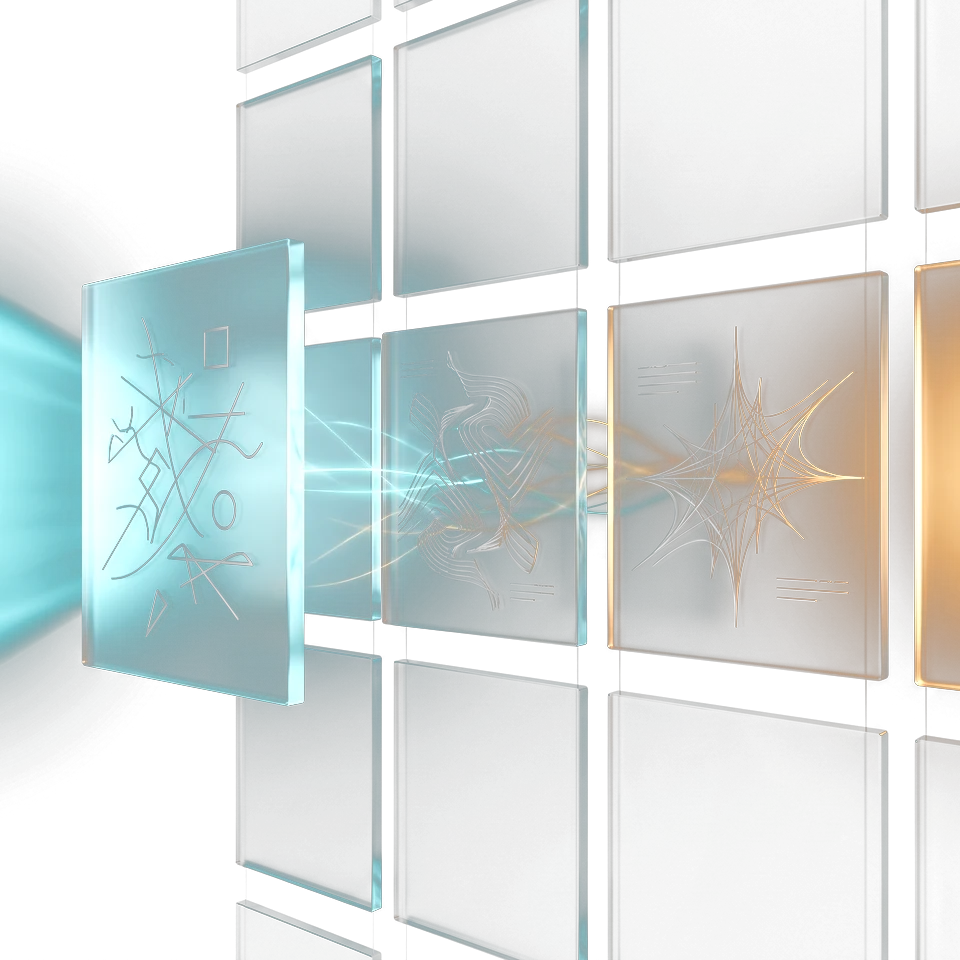
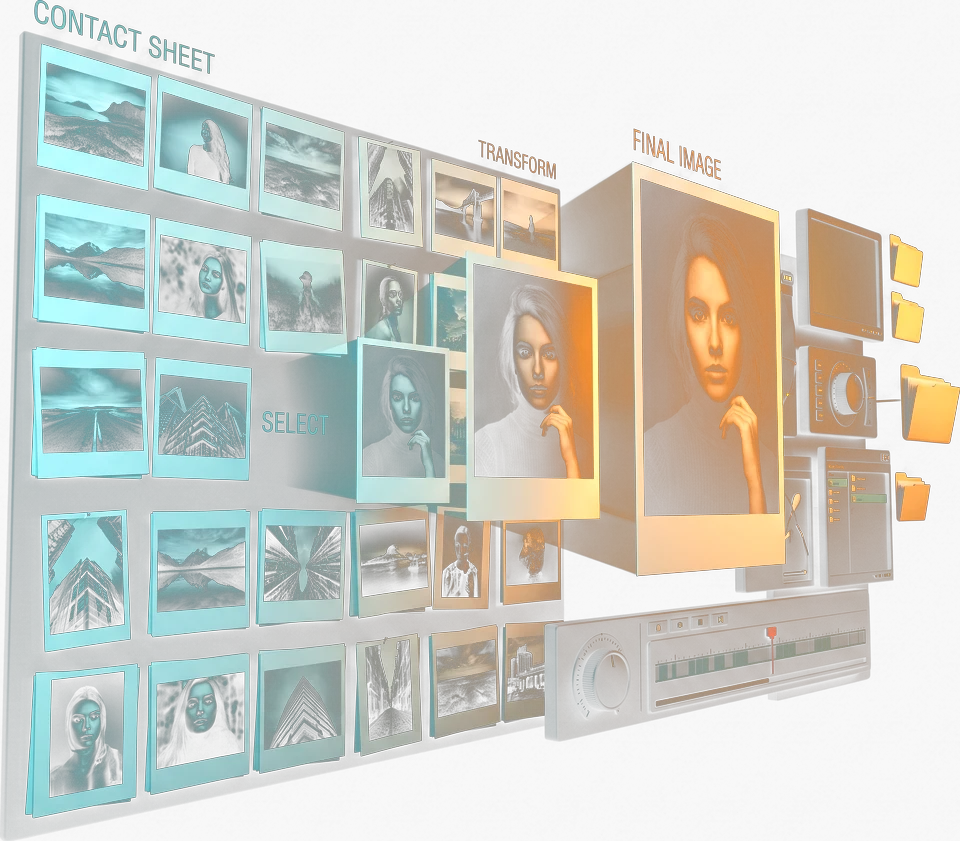
Fa' riconoscere lo strumento nella copertina, e unisci racconto e montaggio
Le copertine erano astratte: sculture di vetro che raccontavano un passaggio, ma
per capire quale bisognava gia' sapere cosa faceva lo strumento. Ora gli oggetti
sono quelli veri del mestiere. «Genera immagini» e' un campo di testo con dentro
scritto "a quiet street at sunset" e, a destra, la fotografia che ne nasce: si
vede che parte da una frase e non da uno scatto, che era esattamente la cosa che
non si capiva. «Banco del prompt» sono manopole con l'etichetta sopra — esposizione,
contrasto, saturazione — e la foto che cambia. «Sviluppo colore» e' un file grezzo
piatto accanto allo stesso file sviluppato.

E le aree: «Racconto» aveva un solo strumento e «Montaggio» quattro, ma sono lo
stesso lavoro in due momenti — si scrive la storia, la si gira, la si taglia.
Adesso e' una sola area «Video», da cinque. Erano anche due sezioni da leggere per
capire dove stava il video, e una sezione da uno strumento lasciava due buchi
nella griglia a tre colonne.

diff --git a/scripts/copertine.ts b/scripts/copertine.ts
@@ -36,53 +36,50 @@ import { existsSync, mkdirSync, statSync } from "node:fs";
 import { generaDaTesto } from "../server/higgsfield.ts";
 
 const STILE =
-  "Infografica tridimensionale, non un'illustrazione decorativa: la composizione racconta una " +
-  "TRASFORMAZIONE da sinistra a destra — la cosa che entra, il passaggio, la cosa che esce — e si " +
-  "capisce senza didascalia. SFONDO NERO PURO uniforme, senza pavimento e senza ombre proiettate. " +
-  "Materiali: vetro spesso leggermente satinato e alluminio spazzolato scuro. Una sola luce di taglio " +
-  "ciano fredda da sinistra e una ambra calda da destra, niente altri colori se non dove il soggetto " +
-  "richiede espressamente un confronto di colore. Nessuna lettera, nessun numero, nessun logo: il testo, " +
-  "quando serve, e' righe astratte incise nel vetro, che si leggono come scrittura senza esserlo. " +
-  "Composizione ORIZZONTALE, oggetti piccoli e molto nero attorno. Minimalismo estremo, elegante, " +
-  "moderno, coerente con un'interfaccia scura.";
+  "Illustrazione tridimensionale REALISTICA e concreta, non astratta: si riconoscono oggetti veri — " +
+  "schermi, fotografie stampate, cartelle, manopole, linee del tempo — e si capisce a colpo d'occhio " +
+  "cosa entra e cosa esce. La composizione racconta una TRASFORMAZIONE da sinistra a destra. " +
+  "Le fotografie mostrate sono immagini vere e riconoscibili: paesaggio, ritratto, architettura. " +
+  "Il testo, quando serve, e' breve e LEGGIBILE, in inglese. " +
+  "SFONDO NERO PURO uniforme, senza pavimento e senza ombre proiettate. Illuminazione con una luce " +
+  "ciano fredda da sinistra e una ambra calda da destra; nessun altro colore se non quello delle " +
+  "fotografie mostrate. Composizione ORIZZONTALE, molto nero attorno. Elegante, moderno, nitido, " +
+  "coerente con l'interfaccia scura di un programma di fotografia.";
 
 /**
- * Il soggetto deve far capire COSA FA lo strumento, non evocarlo.
+ * Il soggetto deve far RICONOSCERE lo strumento, non evocarlo.
  *
- * La prima serie era bella e muta: un ventaglio di cilindri di vetro non dice che
- * quello strumento sviluppa il colore, e due strumenti vicini — generare e rifare —
- * si somigliavano perche' entrambi erano «una lastra che si illumina». Qui ognuno
- * mostra il proprio passaggio: cosa entra da sinistra, cosa esce a destra. E' anche
- * il motivo per cui restano riconoscibili in fila: sono ventidue frasi diverse, non
- * ventidue variazioni della stessa.
+ * La prima serie era bella e muta; la seconda raccontava un passaggio ma con sculture
+ * di vetro, e per capirlo bisognava gia' sapere cosa faceva lo strumento. Qui gli
+ * oggetti sono quelli veri del mestiere — un campo di testo, una fotografia, una
+ * cartella, una linea del tempo — perche' l'associazione deve essere immediata: se
+ * uno strumento parte da una frase scritta, nell'immagine si vede una frase scritta.
  */
 const SOGGETTI: Record<string, string> = {
-  generate: "A sinistra tre righe astratte incise nel vetro, come una frase; al centro un passaggio di luce; a destra una lastra fotografica che si e' accesa con un'immagine dentro. Dal testo nasce l'immagine",
-  retouch: "A sinistra una pila di lastre opache e spente; al centro un passaggio di luce che le attraversa tutte; a destra la stessa pila, ogni lastra ora nitida e illuminata. Un intero set rifatto in un colpo. SOLO ciano e ambra, nessun altro colore",
-  prompt: "Una fila di manopole di alluminio in basso; sopra ognuna una piccola lastra che cambia di conseguenza, dalla piu' scura alla piu' luminosa. I controlli e il loro effetto, visibili insieme. SOLO ciano e ambra, nessun altro colore",
-  color: "Una sola lastra fotografica tagliata a meta' da una linea netta verticale: la meta' sinistra grigia e piatta, la meta' destra con lo stesso soggetto ma colore pieno e contrasto. Il prima e il dopo nella stessa immagine",
-  export: "Una lastra di vetro finita che scivola fuori da una fessura di alluminio verso destra, uscendo dal contenitore. Il lavoro che esce dal progetto",
-  pipeline: "Quattro lastre in fila da sinistra a destra, collegate da un filo di luce: la prima spenta e grezza, ognuna piu' definita, l'ultima finita. La catena intera in un colpo solo",
-  quality: "Una lastra fotografica sotto una cornice di misura di alluminio con tacche incise; una zona della lastra e' cerchiata e illuminata, come un difetto trovato. Misurare cosa e' venuto male",
-  defects: "Una griglia di piccole lastre di vetro; tre portano un segno diverso — una crepa, una sfocatura, una zona bruciata — e sono staccate dalle altre. Il catalogo di cio' che puo' andare storto",
-  gallery: "Una griglia ordinata di lastre di vetro sospese; una si stacca e viene avanti, ingrandita e accesa. Sfogliare e scegliere",
-  sources: "A sinistra una cartella di alluminio aperta; da essa un flusso di piccole lastre passa in un vassoio a destra, dove sono allineate. Le fotografie che entrano nel progetto",
-  posts: "Tre lastre verticali affiancate come schede, con un arco di luce che indica lo scorrimento laterale da una all'altra. Un carosello",
-  references: "A sinistra una lastra campione appesa a un gancio; una linea di luce la collega a destra a una seconda lastra, che ne ha preso il colore. Uno stile che si trasferisce",
-  tree: "Una lastra sola in basso, da cui parte un ramo di vetro che si divide in tre lastre diverse in alto. Le versioni nate dalla stessa foto",
-  orphans: "Una griglia ordinata di lastre collegate da fili di luce; una sta fuori, il suo filo spezzato e spento. Una foto che non appartiene a nessuno",
-  storyboard: "Quattro riquadri di vetro in fila su una guida di alluminio, ognuno con dentro una scena diversa, letti da sinistra a destra. Una storia divisa in quadri",
-  edit: "In basso una forma d'onda scolpita in alluminio; sopra, clip di vetro tagliate esattamente in corrispondenza dei picchi, da lame di luce verticali. Tagliare sul ritmo",
-  picks: "Cinque clip di vetro in fila: tre in avanti e accese, due spinte indietro e spente. Scegliere cosa tenere",
-  shots: "A sinistra righe astratte incise nel vetro; a destra una clip di vetro in movimento, con scie di luce che ne mostrano il moto. Dal testo nasce la ripresa",
-  gate: "Una barra di vetro orizzontale con una tacca incisa che segna una soglia; sotto la tacca due clip passano illuminate, sopra una resta ferma e spenta. Una barra da superare",
-  projects: "Tre contenitori di alluminio affiancati, ognuno con lastre dentro; quello centrale e' aperto e illuminato. I lavori, uno accanto all'altro",
-  queue: "Cinque gettoni di vetro su un binario di alluminio che scorre verso destra; il primo sta entrando in una fessura illuminata, gli altri aspettano. Una coda che avanza",
-  status: "Un anello di vetro con dentro una corona di luce che pulsa, e accanto una piccola spia accesa. Il motore acceso e il suo stato",
+  generate: "A sinistra un campo di testo scuro con dentro scritto \"a quiet street at sunset\" e il cursore che lampeggia; una freccia di luce; a destra la fotografia vera che ne e' nata, incorniciata e illuminata. Dal testo nasce la fotografia, senza nessuno scatto di partenza",
+  retouch: "A sinistra una griglia di sei fotografie piatte e slavate; una freccia di luce che le attraversa tutte insieme; a destra la stessa griglia di sei, ognuna ora sviluppata e con contrasto. Un set intero rifatto in un colpo",
+  prompt: "Un pannello di controllo scuro con manopole e cursori etichettati; sopra il pannello la stessa fotografia ripetuta tre volte, che cambia mano a mano che i cursori si spostano. I controlli e il loro effetto, visibili insieme",
+  color: "Una sola fotografia di paesaggio tagliata da una linea verticale netta: la meta' sinistra piatta e desaturata come uscita dalla macchina, la meta' destra sviluppata, con colore e contrasto. Il prima e il dopo nella stessa immagine",
+  export: "Una cartella di sistema aperta a sinistra; tre fotografie finite scivolano fuori verso destra e si posano ordinate fuori dalla cartella. Le preferite che escono dal progetto",
+  pipeline: "Una sola fotografia che attraversa quattro stazioni allineate da sinistra a destra: grezza, sviluppata, rifinita, esportata. La catena intera in un colpo solo",
+  quality: "Una fotografia sotto una lente d'ingrandimento che cerchia una zona sfocata; accanto una piccola lista con tre voci, due spuntate e una segnata in rosso. Misurare cosa e' venuto male",
+  defects: "Quattro fotografie affiancate, ognuna con un difetto diverso e riconoscibile: una mossa, una con le luci bruciate, una rumorosa, una fuori fuoco. Il catalogo di cio' che puo' andare storto",
+  gallery: "Un provino a contatto di molte fotografie su una griglia scura; una si stacca, viene avanti ingrandita e illuminata. Sfogliare e scegliere",
+  sources: "A sinistra una cartella del computer piena di fotografie; una freccia di luce; a destra la finestra di un programma dove le stesse fotografie sono ordinate in griglia. Le foto che entrano nel progetto",
+  posts: "Uno schermo verticale di telefono che mostra un carosello di tre fotografie, con il gesto di scorrimento laterale indicato da un arco di luce. Post e caroselli",
+  references: "A sinistra una fotografia di riferimento con un colore forte; una freccia di luce; a destra una fotografia diversa che ha assunto lo stesso colore. Uno stile che si trasferisce",
+  tree: "Una fotografia in basso da cui partono tre rami di luce verso tre versioni della stessa foto, ognuna sviluppata diversamente. Le versioni nate dallo stesso scatto",
+  orphans: "Una griglia ordinata di fotografie collegate da linee di luce; una sta fuori dalla griglia, la sua linea spezzata e spenta. Una foto che non appartiene a nessun progetto",
+  storyboard: "Quattro riquadri di storyboard in fila su una striscia, ognuno con una scena diversa disegnata dentro, letti da sinistra a destra. Una storia divisa in quadri",
+  edit: "Una linea del tempo di montaggio video: in basso la forma d'onda dell'audio, sopra le clip tagliate esattamente sui picchi, con le linee di taglio evidenziate. Tagliare sul ritmo",
+  picks: "Cinque fotogrammi di riprese video in fila: tre con una spunta verde e in primo piano, due con una croce e spinte indietro, spente. Scegliere quali riprese tenere",
+  shots: "A sinistra un campo di testo con dentro una breve descrizione scritta; una freccia di luce; a destra un fotogramma di video in movimento, con scia di movimento. Dal testo nasce la ripresa",
+  gate: "Una barra orizzontale con una soglia segnata; sotto la soglia due clip passano illuminate, sopra una resta bloccata e spenta. Una barra di qualita' da superare",
+  projects: "Tre schede di progetto affiancate su uno sfondo scuro, ognuna con la sua anteprima fotografica e il suo nome; quella centrale in evidenza. I lavori, uno accanto all'altro",
+  queue: "Un elenco di lavori in coda su uno schermo scuro: il primo con la barra di avanzamento a meta', gli altri in attesa. Una coda che avanza",
+  status: "Un piccolo cruscotto scuro con un indicatore circolare acceso in verde e due righe di stato accanto. Il motore acceso e il suo stato",
 };
 
-/** «Qualita' massima, testo e diagrammi»: e' la descrizione del modello, ed e'
- *  esattamente cio' che serve a un'infografica che deve spiegare uno strumento. */
 const MODELLO = "nano_banana_pro";
 const DESTINAZIONE = "client/public/copertine";
 const GREZZE = ".copertine-grezze";

diff --git a/server/tools.ts b/server/tools.ts
@@ -37,8 +37,7 @@ export type ToolArea =
   | "color"
   | "quality"
   | "library"
-  | "story"
-  | "edit"
+  | "video"
   | "system";
 
 /** The areas in reading order, with the line that explains them. */
@@ -47,8 +46,11 @@ export const AREAS: { id: ToolArea; name: string; what: string }[] = [
   { id: "color", name: "Colore", what: "Un look solo per tutto il set, e l'uscita." },
   { id: "quality", name: "Qualità", what: "Misurare cosa è venuto male, prima di pubblicarlo." },
   { id: "library", name: "Libreria", what: "Le foto: da dove vengono, come si raggruppano." },
-  { id: "story", name: "Racconto", what: "Dalla scaletta ai pannelli." },
-  { id: "edit", name: "Montaggio", what: "Riprese, tagli sul beat, ricostruzione." },
+  // «Racconto» conteneva un solo strumento e «Montaggio» quattro, e le due cose
+  // sono lo stesso lavoro visto in due momenti: si scrive la storia, la si gira, la
+  // si taglia. Divise erano due sezioni da leggere per capire dove stava il video —
+  // e una sezione da uno strumento lasciava due buchi nella griglia.
+  { id: "video", name: "Video", what: "Dalla scaletta al montaggio: quadri, riprese, tagli sul ritmo." },
   { id: "system", name: "Sistema", what: "Progetti, generatore, stato della macchina." },
 ];
 
@@ -330,7 +332,7 @@ export const TOOLS: Tool[] = [
     id: "storyboard",
     name: "Storyboard",
     what: "Una scaletta diventa pannelli in ordine, uno per battuta, con durata, scena e un cast che tiene la faccia da un pannello all'altro.",
-    area: "story",
+    area: "video",
     icon: "storyboard",
     views: ["storyboard"],
     api: ["GET /api/storyboard", "POST /api/storyboard/panels", "PUT /api/storyboard/sequence", "POST /api/storyboard/export"],
@@ -356,7 +358,7 @@ export const TOOLS: Tool[] = [
     id: "edit",
     name: "Montaggio sul beat",
     what: "Il piano dei tagli deriva dalle misure del brano: durezza del suono contro durezza dell'immagine. Le forzature restano dichiarate.",
-    area: "edit",
+    area: "video",
     icon: "edit",
     views: ["video"],
     api: ["GET /api/video/cuts", "GET /api/video/overrides", "POST /api/video/pin", "POST /api/video/rebuild"],
@@ -376,7 +378,7 @@ export const TOOLS: Tool[] = [
     id: "picks",
     name: "Scelta delle riprese",
     what: "Una ripresa per volta, con i provini e i problemi già misurati: si tiene o si scarta, e si dice perché.",
-    area: "edit",
+    area: "video",
     icon: "picks",
     views: ["video"],
     api: ["GET /api/video/shots", "POST /api/video/pick"],
@@ -388,7 +390,7 @@ export const TOOLS: Tool[] = [
     id: "shots",
     name: "Genera riprese",
     what: "Una ripresa nuova sulla 3090 via ComfyUI, con i parametri che ci stanno davvero nella memoria della scheda.",
-    area: "edit",
+    area: "video",
     icon: "shots",
     views: ["video"],
     api: ["POST /api/video/generate", "GET /api/video/generations"],
@@ -400,7 +402,7 @@ export const TOOLS: Tool[] = [
     id: "gate",
     name: "Barra del montaggio",
     what: "I controlli sul video costruito, ognuno con il numero misurato: tagli sulle battute, niente riprese doppie, correlazione suono/immagine.",
-    area: "edit",
+    area: "video",
     icon: "gate",
     views: ["video"],
     api: ["GET /api/video/gate"],

diff --git a/client/src/iconNames.ts b/client/src/iconNames.ts
@@ -2,7 +2,6 @@ import {
   Aperture,
   BadgeCheck,
   BookImage,
-  BookOpen,
   Clapperboard,
   Cog,
   FolderInput,
@@ -78,7 +77,6 @@ export const ICONE_AREA: Record<string, LucideIcon> = {
   color: Palette,
   quality: BadgeCheck,
   library: LibraryBig,
-  story: BookOpen,
-  edit: Clapperboard,
+  video: Clapperboard,
   system: Cog,
 };
